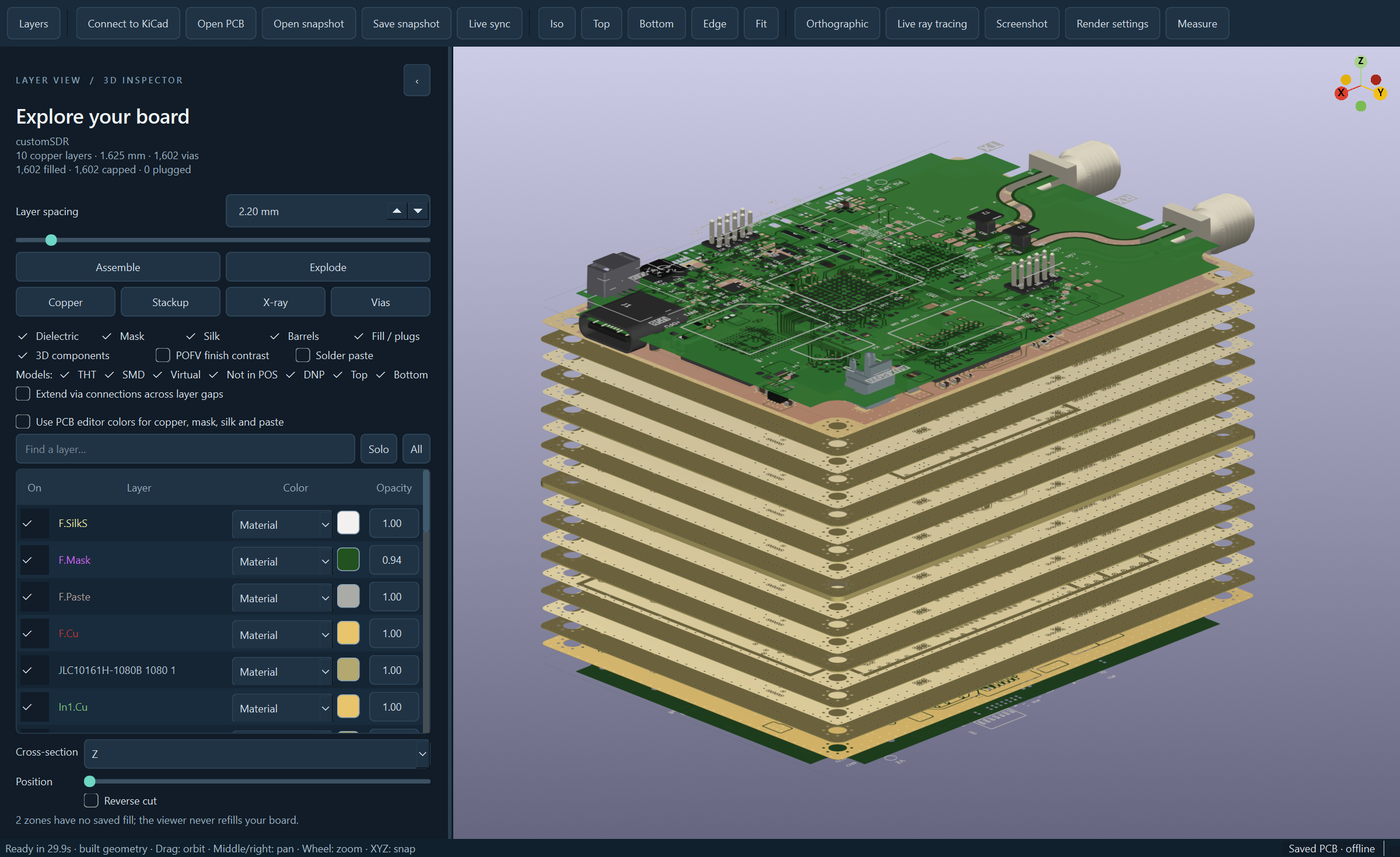
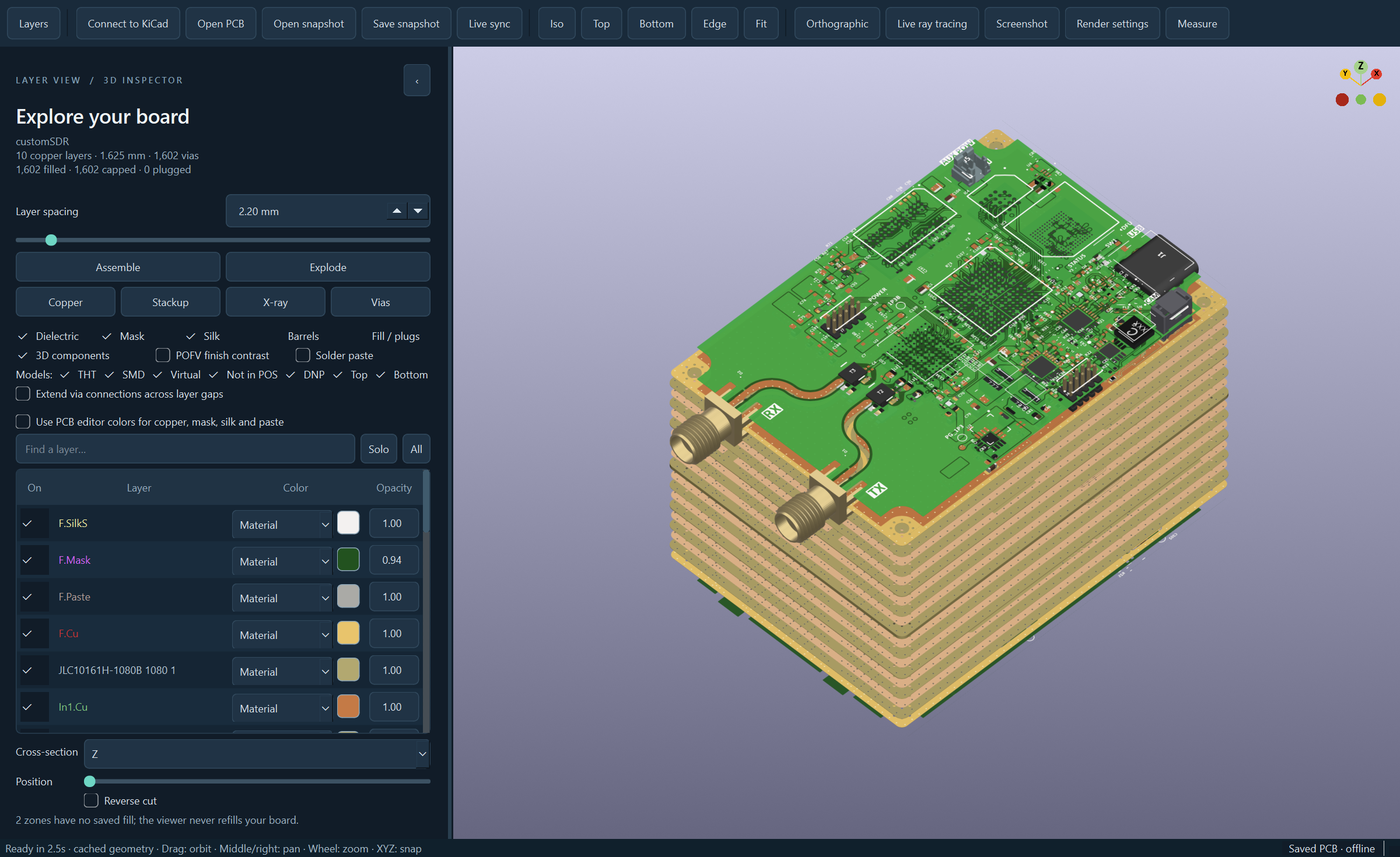
Consistent copper on every layer, gold SMA parts; SDR screenshots
Realistic style: inner copper foils are bare copper (the color of copper
under the outer resist) instead of the plated finish, so every layer of the
exploded stack matches; only exposed outer copper is gold. Gold/brass model
parts (SMA bodies, gold pins) show a deeper plated gold rather than a pale
cream that read as silver.

README: orthographic screenshots of the 10-layer custom SDR board from the
opposite corner, a side view of the exploded stack, a ray-traced render and
an X-ray with via connections extended through the layer gaps.

diff --git a/layer_viewer/finishes.py b/layer_viewer/finishes.py
@@ -92,6 +92,9 @@ HASL_COLOR = _rgb(0xea, 0xea, 0xe5)         # pcb2blender HASL
 # pcb2blender's ENIG #efdfbb reads as pale cream under image-based lighting;
 # immersion gold is a saturated warm yellow (gold F0 ~ (1, .77, .34) linear).
 REAL_ENIG_COLOR = _rgb(0xe8, 0xc4, 0x6c)
+# Gold/brass model parts (SMA bodies, gold pins): a deeper gold, since a
+# lighter swatch washes out to beige as an environment-lit metal.
+GOLD_PART_COLOR = _rgb(0xd9, 0xae, 0x55)
 REAL_SILVER_COLOR = _rgb(0xe7, 0xe5, 0xe1)
 REAL_TIN_COLOR = _rgb(0xcb, 0xca, 0xc0)
 SOLDER_COLOR = _rgb(0xaa, 0xaa, 0xa6)       # pcb2blender solder
@@ -262,7 +265,14 @@ def finish_appearance(name, style=None):
     return DEFAULT_FINISH_COLOR, .26
 
 
-_REALISTIC_FINISHES = (HASL_COLOR, REAL_ENIG_COLOR, REAL_SILVER_COLOR, REAL_TIN_COLOR, BARE_COPPER_COLOR)
+# Bare copper (inner foils) is the same environment-lit metal as the outer
+# copper, so every layer of the stack shows one consistent copper.
+_REALISTIC_FINISHES = (HASL_COLOR, REAL_ENIG_COLOR, REAL_SILVER_COLOR, REAL_TIN_COLOR, BARE_COPPER_COLOR,
+                       COVERED_COPPER_COLOR)
+
+
+def _same(rgb, swatch):
+    return tuple(round(float(v), 6) for v in rgb[:3]) == tuple(round(v, 6) for v in swatch)
 
 
 def is_realistic_metal(rgb):
@@ -278,7 +288,7 @@ def covered_copper_color(rgb):
     plated where copper is exposed). KiCad finishes and custom colors stay.
     Decided from the color itself, so separate render processes agree.
     """
-    if is_realistic_metal(rgb):
+    if is_realistic_metal(rgb) or _same(rgb, COVERED_COPPER_COLOR):
         return COVERED_COPPER_COLOR
     return tuple(float(v) for v in rgb[:3])
 
@@ -295,8 +305,10 @@ def ray_metal_color(rgb):
 def apply_surface_finish(scene, snapshot, style=None):
     """Re-derive every material color from the stackup on new or reused meshes.
 
-    All conductors (foils, barrels, cap patches) use the board finish, as one
-    consistent viewing convention for the exploded stack. Every dielectric slab
+    Conductors (foils, barrels, cap patches) use the board finish. In the
+    realistic style inner foils are bare copper, the same color as copper
+    under the outer resist: only exposed outer copper is plated, so every
+    layer of the exploded stack shows one consistent copper. Every dielectric slab
     shows KiCad's blended board-body color. UI custom/editor colors live on
     actors and remain separate. Part records are replaced so an earlier scene
     stays immutable.
@@ -307,9 +319,14 @@ def apply_surface_finish(scene, snapshot, style=None):
     stackup_colors = getattr(stackup, "colors", {})
     body = board_body_color((getattr(layer, "color", "") for layer in getattr(stackup, "dielectrics", ())),
                             style)
+    copper_ids = [layer.id for layer in getattr(stackup, "copper", ())]
+    outer_ids = {copper_ids[0], copper_ids[-1]} if copper_ids else set()
+    inner_bare = style == "realistic"
     parts = []
     for part in scene.parts:
-        if part.kind == "dielectric":
+        if part.kind == "copper" and inner_bare and outer_ids and part.layer_id not in outer_ids:
+            parts.append(replace(part, color=COVERED_COPPER_COLOR, metallic=1., roughness=plated_roughness))
+        elif part.kind == "dielectric":
             parts.append(replace(part, color=body[:3], opacity=body[3]))
         elif part.kind in STACKUP_KINDS:
             context = None

diff --git a/layer_viewer/progressive_raytrace.py b/layer_viewer/progressive_raytrace.py
@@ -81,7 +81,13 @@ def _material(mesh, *, coated=False):
         opaque = {"type": "principled", "base_color": metal, "metallic": 1.,
                   "roughness": mesh.roughness if mesh.roughness is not None else
                               (.32 if mesh.kind == "via_patch" else .22)}
-        if coated:
+        from .finishes import COVERED_COPPER_COLOR
+        if tuple(round(float(v), 6) for v in mesh.color[:3]) == tuple(round(v, 6) for v in COVERED_COPPER_COLOR):
+            # Inner foils are bare copper laminated in the board: shade them
+            # exactly like resist-covered outer copper so all layers match.
+            opaque = {"type": "diffuse", "reflectance": {"type": "rgb",
+                      "value": _linear(COVERED_COPPER_COLOR).tolist()}}
+        elif coated:
             # The exact covered faces use an effective scattering substrate.
             # A polished conductor under our straight-through pigment filter
             # reflected dark component silhouettes as detached "shadows".

diff --git a/tests/test_realistic_materials.py b/tests/test_realistic_materials.py
@@ -85,7 +85,14 @@ def test_switching_style_recolors_without_remeshing():
             assert before.mesh is after.mesh
         masks = [p for p in real.parts if p.kind == "mask"]
         assert masks and all(p.roughness is not None for p in masks)
-        assert {p.color for p in real.parts if p.kind == "copper"} == {HASL_COLOR}
+        ids = [layer.id for layer in snapshot.stackup.copper]
+        outer = {ids[0], ids[-1]}
+        copper = [p for p in real.parts if p.kind == "copper"]
+        assert {p.color for p in copper if p.layer_id in outer} == {HASL_COLOR}
+        # Only exposed outer copper is plated: inner foils are bare copper,
+        # matching copper under the outer resist.
+        inner = {p.color for p in copper if p.layer_id not in outer}
+        assert inner <= {COVERED_COPPER_COLOR}
     finally:
         finishes.set_style("realistic")
 

diff --git a/tests/test_models_and_filters.py b/tests/test_models_and_filters.py
@@ -17,11 +17,12 @@ def test_plated_connector_grey_is_metal_but_dark_and_tinted_bodies_are_not():
 
 
 def test_metal_colors_are_shown_like_pcb2blender_library_pins():
-    # KiCad PIN-01 / PIN-02 as pcb2blender's pins_silver #eaeae5 / pins_gold #efdfbb.
+    # KiCad PIN-01 as pcb2blender's pins_silver #eaeae5; PIN-02 gold (SMA bodies,
+    # gold pins) as the board's plated gold, not a pale cream that reads silver.
     silver = np.round(np.array(metal_display_color((.824, .820, .781))) * 255)
     gold = np.round(np.array(metal_display_color((.859, .738, .496))) * 255)
     np.testing.assert_allclose(silver, (0xea, 0xea, 0xe5), atol=1)
-    np.testing.assert_allclose(gold, (0xef, 0xdf, 0xbb), atol=1)
+    np.testing.assert_allclose(gold, (0xd9, 0xae, 0x55), atol=1)
 
 
 def _snapshot(models, mounting="smd", dnp=False, pos=False, side="top"):

diff --git a/layer_viewer/components.py b/layer_viewer/components.py
@@ -90,7 +90,13 @@ def metal_display_color(color):
 
     KiCad library material colors (PIN-01 tin, PIN-02 gold, MET-*) were
     authored as linear reflectance; shown as sRGB they read as dull paint.
+    Gold/brass parts (SMA bodies, gold pins) keep the plated gold of the board
+    finish: the sRGB lift turned them pale cream, which reads as silver once
+    lit as metal.
     """
+    if _is_gold(color):
+        from .finishes import GOLD_PART_COLOR
+        return tuple(float(v) for v in GOLD_PART_COLOR)
     return tuple(float(1.055 * max(0., v) ** (1 / 2.4) - .055 if v > .0031308 else 12.92 * v)
                  for v in color[:3])
 

diff --git a/README.md b/README.md
@@ -57,11 +57,15 @@ physical copper, dielectric, solder-mask, silkscreen and paste layers.
 
 ![Ray-traced render](docs/raytraced.png)
 
-*Ray-traced export: ENIG pads, two-tone green resist, metal SMA connectors.*
+*Ray-traced export: ENIG pads, two-tone green resist, gold SMA connectors.*
 
-| Assembled | X-ray, vias extended through the layers |
+| Exploded, from the side | Assembled |
 |---|---|
-| ![Assembled](docs/assembled.png) | ![X-ray](docs/xray.png) |
+| ![Exploded side view](docs/exploded_side.png) | ![Assembled](docs/assembled.png) |
+
+![X-ray, vias extended through the layers](docs/xray.png)
+
+*X-ray: copper and barrels only, with via connections extended through the layer gaps.*
 
 ## Requirements
 

diff --git a/CHANGELOG.md b/CHANGELOG.md
@@ -1,5 +1,15 @@
 # Changelog
 
+## Unreleased
+
+- Realistic style: inner copper layers are bare copper, the same color as
+  copper under the outer resist; only exposed outer copper shows the plated
+  finish, so every layer of the exploded stack matches.
+- Gold/brass model parts (SMA connectors, gold pins) show a deeper plated
+  gold instead of a pale cream that read as silver.
+- README screenshots: the 10-layer custom SDR board in orthographic views,
+  including a side view of the exploded stack and a ray-traced render.
+
 ## 0.7.1
 
 - 3D models stored as a bare file name (for example `part.stp`) are found the
